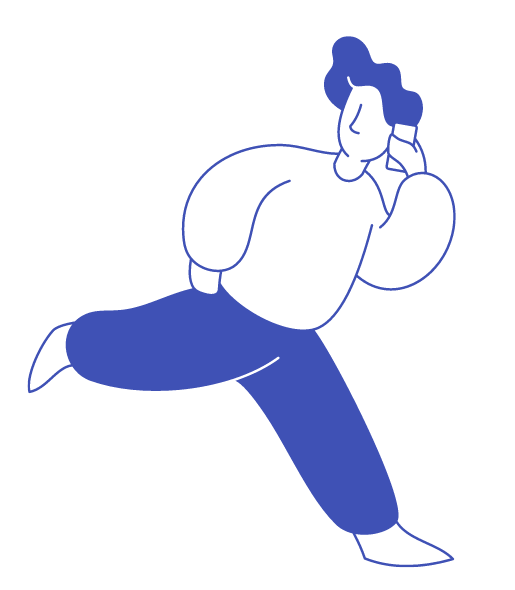
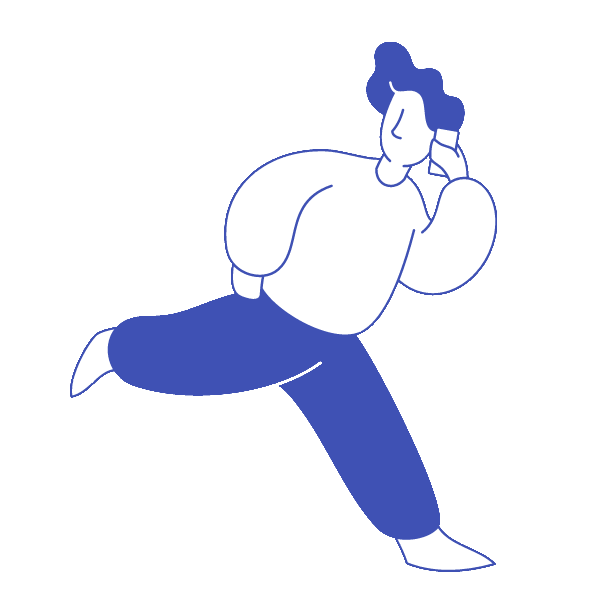
modif image + commentaire code

diff --git a/src/components/Call.js b/src/components/Call.js
@@ -15,16 +15,20 @@ import {
 } from '../app/callSlice'
 import { selectLoader } from '../app/utilSlice';
 
+// Component Call is the graphical representation of a call
+// It contains calls informations, the audio player and the transcription chat
 export function Call() {
+    
+    // Get values from state
     const recording = useSelector(selectRecording);
     const transcript = useSelector(selectTranscript);
     const sessionId = useSelector(selectSessionId);
     const discussionStartTime = useSelector(selectDiscussionStartTime);
     const callDuration = useSelector(selectCallDuration);
     const loader = useSelector(selectLoader);
+
     const classes = useStyles();
-    var date = discussionStartTime ? new Date(discussionStartTime) : null;
-    var duration = callDuration ? new Date(callDuration * 1000) : null;
+
     return (
         <Grid container className={classes.root}>
             <Grid item className={classes.info}>
@@ -33,20 +37,19 @@ export function Call() {
                 </div>
                 <Grid container>
                     <Grid item xs={6}>{
-                        date && <span className={classes.left} style={{ fontSize: 'large' }} >{date.getHours()}h{date.getMinutes()}</span>
+                        discussionStartTime && <span className={classes.left} style={{ fontSize: 'large' }} >{discussionStartTime.getHours()}h{discussionStartTime.getMinutes()}</span>
                     }
-
                     </Grid>
                     <Grid item xs={6}>
                         <span className={classes.right} style={{ fontSize: 'large' }}>{useSelector(selectCallerNumer)}</span>
                     </Grid>
                     <Grid item xs={6}>{
-                        date && <span className={classes.left}>{date.getDate()}/{date.getMonth()}/{date.getFullYear()}</span>
+                        discussionStartTime && <span className={classes.left}>{discussionStartTime.getDate()}/{discussionStartTime.getMonth()}/{discussionStartTime.getFullYear()}</span>
                     }
                     </Grid>
                     <Grid item xs={6} >{
-                        duration &&
-                        <span className={classes.right}>{duration.getMinutes()}:{duration.getSeconds()}s</span>
+                        callDuration &&
+                        <span className={classes.right}>{callDuration.getMinutes()}:{callDuration.getSeconds()}s</span>
                     }
                     </Grid>
                 </Grid>
@@ -61,14 +64,13 @@ export function Call() {
                         <Grid item xs={8}>
                             <span className={classes.error}> SORRY WE CANNOT FIND RECORDING FOR THIS CALL </span>
                         </Grid>
-
                     </Grid>
             }
             </Grid>
             <Grid item className={classes.bubblesContainer}>{
                 loader ?
                     <div style={{ textAlign: 'center' }} >
-                        <CircularProgress className={classes.loader} />
+                        <CircularProgress className={classes.center} />
                     </div>
                     :
                     (sessionId !== null ?
@@ -81,7 +83,7 @@ export function Call() {
                                     </div>
                                 )
                             })
-                            : <Grid container>
+                            :<Grid container>
                                 <Grid item xs={12} className={classes.center}>
                                     <img src={img} className={classes.img} alt="" />
                                 </Grid>
@@ -90,14 +92,13 @@ export function Call() {
                                 </Grid>
                             </Grid>
                         )
-                        : <Grid container>
+                        :<Grid container>
                             <Grid item xs={12} className={classes.center}>
                                 <img src={img} className={classes.img} alt="" />
                             </Grid>
                             <Grid item xs={12} className={classes.center}>
                                 <span className={classes.error}> Welcome to my app, please select a bot and then select a call to listen to it and read its transcription</span>
                             </Grid>
-
                         </Grid>
                     )}
             </Grid>
@@ -125,13 +126,6 @@ const useStyles = makeStyles(() => ({
         color: '#3F51B5',
         width: '98%',
         padding: '1%'
-    },
-    date: {
-        background: '#DEE3E2',
-        color: 'white',
-        borderRadius: '2px',
-        float: 'left',
-        margin: '1%'
     },
     audio: {
         flexGrow: 1,
@@ -206,16 +200,11 @@ const useStyles = makeStyles(() => ({
     },
     img: {
         width: '250px',
-        height: '300px',
+        height: '250px',
     },
-    logo:{
+    logo: {
         color: '#3F51B5',
         float: 'right'
-    },
-    loader: {
-        width: '100%',
-        height: '100%',
-        textAlign: 'center'
     },
     center: {
         textAlign: 'center'

diff --git a/src/app/callSlice.js b/src/app/callSlice.js
@@ -2,6 +2,8 @@ import { createSlice } from '@reduxjs/toolkit';
 import { getRecordingFromAPI, getTranscriptFromAPI } from '../services/apiCaller';
 import { setLoader } from '../app/utilSlice';
 
+// Part of the store that represente the selected call 
+
 export const callSlice = createSlice({
   name: 'call',
   initialState: {
@@ -18,10 +20,12 @@ export const callSlice = createSlice({
       state.sessionId = action.payload;
     },
     setDiscussionStartTime: (state, action) => {
-      state.discussionStartTime = action.payload;
+      console.log(action);
+      state.discussionStartTime = new Date (action.payload);
     },
     setCallDuration: (state, action) => {
-      state.callDuration = action.payload;
+      console.log(action);
+      state.callDuration = new Date(action.payload * 1000);
     },
     setCalledNumber: (state, action) => {
       state.calledNumber = action.payload;
@@ -43,6 +47,7 @@ export const callSlice = createSlice({
 
 export const { setSessionId, setDiscussionStartTime, setCallDuration, setCalledNumber, setCallerNumber, setRecording, setTranscript } = callSlice.actions;
 
+// Get call recorging (call api service)
 const getRecording = () => async (dispatch, getState) => {
   try {
     const response = await getRecordingFromAPI(getState().callbot.callbotName, getState().call.sessionId, getState().call.discussionStartTime);
@@ -52,6 +57,7 @@ const getRecording = () => async (dispatch, getState) => {
   }
 }
 
+// Get call transcript (call api service)
 const getTranscript = () => async (dispatch, getState) => {
   try {
     const response = await getTranscriptFromAPI(getState().callbot.callbotName, getState().call.sessionId, getState().call.discussionStartTime);
@@ -62,6 +68,7 @@ const getTranscript = () => async (dispatch, getState) => {
 
 }
 
+// Fill state with selected call informations
 export const setCall = (call) => (dispatch) => {
   dispatch(setLoader(true));
   dispatch(setSessionId(call.sessionId));
@@ -74,10 +81,12 @@ export const setCall = (call) => (dispatch) => {
   dispatch(setLoader(false));
 }
 
+// State selectors
 export const selectSessionId = state => state.call.sessionId;
 export const selectRecording = state => state.call.recording;
 export const selectTranscript = state => state.call.transcript;
 export const selectCallerNumer = state => state.call.callerNumber;
 export const selectDiscussionStartTime = state => state.call.discussionStartTime;
 export const selectCallDuration = state => state.call.callDuration;
+
 export default callSlice.reducer;

diff --git a/src/App.js b/src/App.js
@@ -17,7 +17,7 @@ function App() {
         </Grid>
         <Hidden smDown>
           <Grid item sm={2} md={2} lg={2} xs={2} className={classes.containers}>
-            <CallbotResearcher/>
+            <CallbotResearcher />
             <CallList />
           </Grid>
         </Hidden>
@@ -25,24 +25,23 @@ function App() {
           <Call />
         </Grid>
         <Grid item xs={12} className={classes.footer}>
-          <a className={classes.link} href="https://www.google.fr/" >GITHUB</a>
+          <a className={classes.link} href="https://github.com/yahiaouik/calldesk_exercice" >Github Repository</a>
         </Grid>
       </Grid>
     </div>
   );
 }
 
-const useStyles = makeStyles((theme) => ({
+const useStyles = makeStyles(() => ({
   root: {
     width: '100%',
     height: '100%',
     position: "absolute",
     left: "0",
-    overflow: "auto",
-
+    overflow: "auto"
   },
   header: {
-    display: 'table',
+    display: 'table'
   },
   containers: {
     width: '100%',
@@ -53,10 +52,11 @@ const useStyles = makeStyles((theme) => ({
     height: '5%',
     background: '#3f51b5',
     textAlign: 'center',
-    color: 'white',
+    color: 'white'
   },
   link: {
     color: 'white',
+    fontSize: 'x-smaller',
     textDecoration: 'none'
   }
 }));

diff --git a/src/components/CallbotResearcher.js b/src/components/CallbotResearcher.js
@@ -16,13 +16,17 @@ import {
     selectCallbotName
 } from '../app/callbotSlice';
 
+// Component CallbotResearcher is the graphical representation of a research form
+// It allows users to research calls from a specific bot on a specific period of time
 export function CallbotResearcher() {
+
     const dispatch = useDispatch();
     const bots = useSelector(selectBots);
+
     const classes = useStyles();
     return (
-        <Grid container className={classes.root} >
-            <Grid item xs={12} className={classes.title} >
+        <Grid container className={classes.root}>
+            <Grid item xs={12} className={classes.title}>
                 <span>SELECT A BOT</span>
             </Grid>
             <Grid item xs={12}>
@@ -33,7 +37,7 @@ export function CallbotResearcher() {
                         onChange={e => dispatch(setCallbotName(e.target.value))}
                     >
                         {bots.map((bot, index) => {
-                           return <MenuItem value={bot} key={index}>{bot}</MenuItem>
+                            return <MenuItem value={bot} key={index}>{bot}</MenuItem>
                         })
                         }
                     </Select>

diff --git a/src/app/callbotSlice.js b/src/app/callbotSlice.js
@@ -2,6 +2,8 @@ import { createSlice } from '@reduxjs/toolkit';
 import { getCallsFromAPI } from '../services/apiCaller';
 import { setLoader } from '../app/utilSlice';
 
+// Part of the store that represente callbot research
+
 export const callbotSlice = createSlice({
   name: 'callbot',
   initialState: {
@@ -29,6 +31,7 @@ export const callbotSlice = createSlice({
 
 export const { setCallbotName, setTimeStampStart, setTimeStampEnd, setCalls } = callbotSlice.actions;
 
+// Get callbot calls (call api service)
 export const getBot = () => async (dispatch, getState) => {
   try {
     if (getState().callbot.callbotName !== "") {
@@ -37,14 +40,15 @@ export const getBot = () => async (dispatch, getState) => {
       dispatch(setCalls(response.data.payload.calls));
       dispatch(setLoader(false));
     }
-  } catch{
+  } catch {
     dispatch(setLoader(false));
   };
 }
 
-
+// State selectors
 export const selectCallbotName = state => state.callbot.callbotName;
 export const selectTime = state => state.callbot.timeStampStart;
 export const selectCalls = state => state.callbot.calls;
 export const selectBots = state => state.callbot.bots;
+
 export default callbotSlice.reducer;

diff --git a/src/components/AppHeader.js b/src/components/AppHeader.js
@@ -8,6 +8,7 @@ import Button from '@material-ui/core/Button';
 import IconButton from '@material-ui/core/IconButton';
 import PhoneIcon from '@material-ui/icons/Phone';
 
+// Component AppHeader is the graphical representation of the app header
 export function AppHeader() {
   const classes = useStyles();
 
@@ -15,10 +16,10 @@ export function AppHeader() {
     <div className={classes.root}>
       <AppBar position="static">
         <Toolbar>
-          <IconButton edge="start" className={classes.menuButton} color="inherit" aria-label="menu">
+          <IconButton className={classes.menuButton}>
             <PhoneIcon />
           </IconButton>
-          <Typography variant="h6" className={classes.title}>
+          <Typography className={classes.title}>
             CallBot APP
           </Typography>
         </Toolbar>
@@ -27,6 +28,7 @@ export function AppHeader() {
   );
 }
 
+// CSS part of the component
 const useStyles = makeStyles((theme) => ({
   root: {
     flexGrow: 1,

diff --git a/src/components/CallList.js b/src/components/CallList.js
@@ -7,6 +7,10 @@ import { selectCalls } from '../app/callbotSlice';
 import { setCall } from '../app/callSlice';
 import { Grid } from '@material-ui/core';
 
+// Component CallList is the graphical representation of a list of calls
+// It allows users to know how many calls contains a specific bot on a specific period of time
+// It allows users to select a specific call and then see its informations
+
 export function CallList() {
     const selector = useSelector(selectCalls);
     const calls = useSelector(selectCalls);
@@ -49,7 +53,7 @@ export function CallList() {
     );
 }
 
-const useStyles = makeStyles((theme) => ({
+const useStyles = makeStyles(() => ({
     root: {
         overflowY: 'auto',
         overflowX: 'hidden',

diff --git a/src/app/utilSlice.js b/src/app/utilSlice.js
@@ -1,5 +1,6 @@
 import { createSlice } from '@reduxjs/toolkit';
 
+// Part of the store that represente util components (here a loader)
 export const utilSlice = createSlice({
   name: 'util',
   initialState: {
@@ -14,6 +15,7 @@ export const utilSlice = createSlice({
 
 export const {setLoader} = utilSlice.actions;
 
+// State selectors
 export const selectLoader = state => state.util.loader;
 
 export default utilSlice.reducer;
